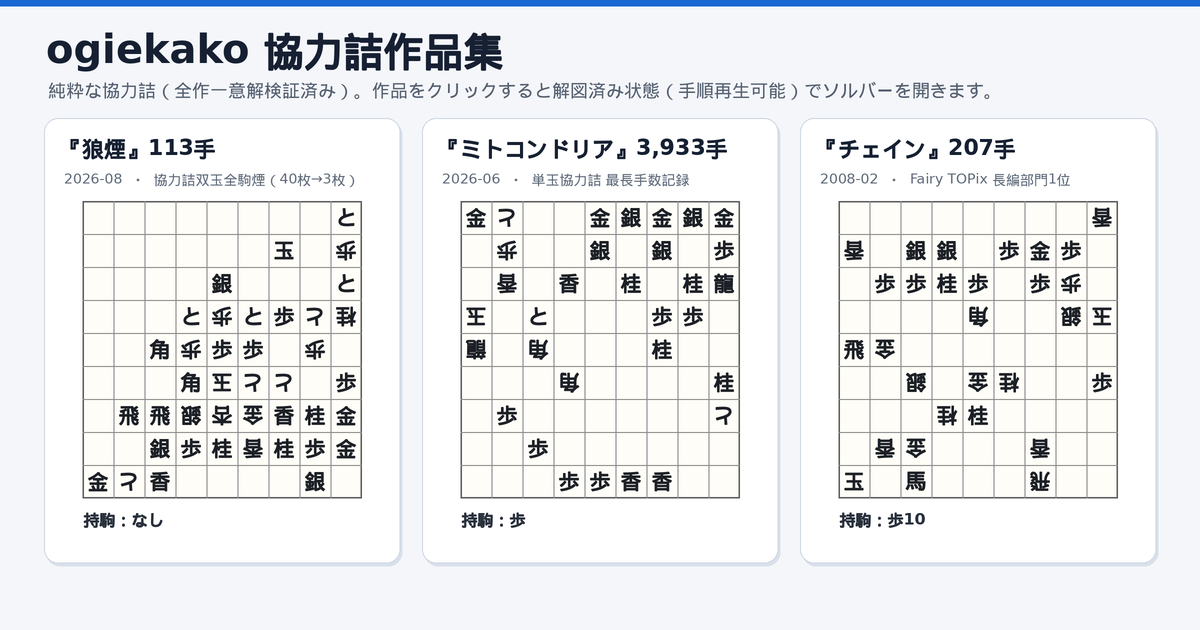
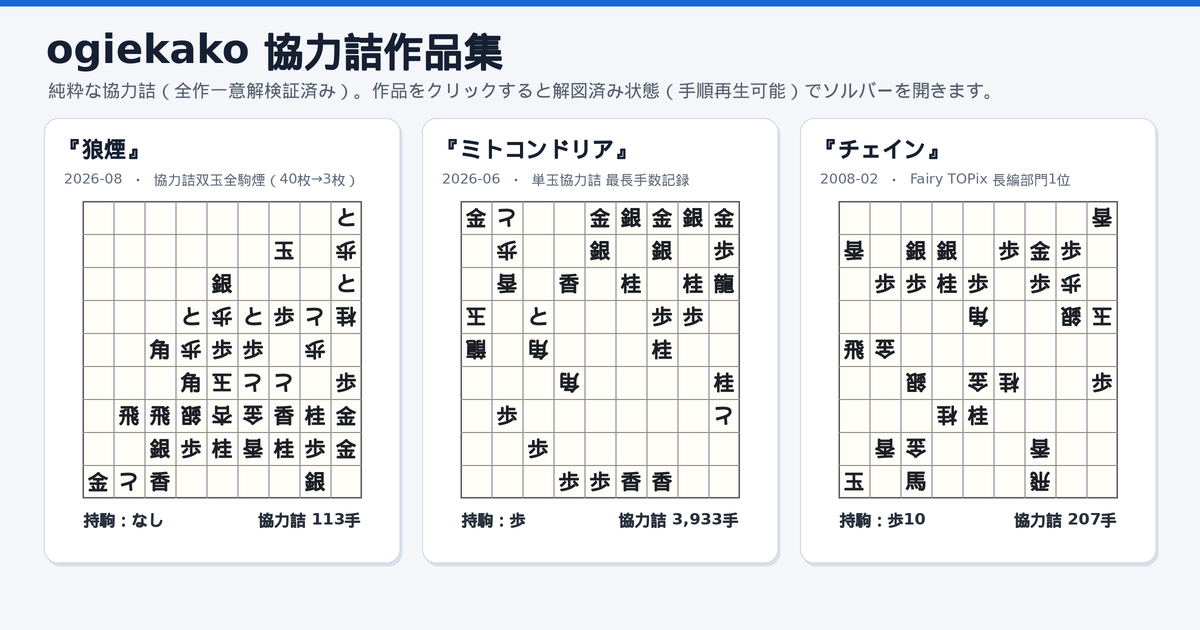
「協力詰 X手」の表記を盤面サムネイル下部に配置

diff --git a/app/src/ui/component/OgiekakoCollection.tsx b/app/src/ui/component/OgiekakoCollection.tsx
@@ -53,6 +53,7 @@ function formatHands(hands: model.Hands): string {
 function BoardThumbnail(props: {
   sfen: string;
   showWhiteHand?: boolean;
+  ruleAndMoves?: string;
   compact?: boolean;
 }) {
   const position = useMemo(() => model.decodeSfen(props.sfen), [props.sfen]);
@@ -153,6 +154,19 @@ function BoardThumbnail(props: {
         <span className="text-muted">持駒：</span>
         {blackHandText}
       </div>
+      {props.ruleAndMoves && (
+        <div
+          className="text-dark fw-semibold"
+          style={{
+            fontSize: props.compact ? "10px" : "11.5px",
+            lineHeight: 1.3,
+            textAlign: "left",
+            marginTop: "2px",
+          }}
+        >
+          {props.ruleAndMoves}
+        </div>
+      )}
     </div>
   );
 }
@@ -405,6 +419,7 @@ export default function OgiekakoCollection(props: {
                         <BoardThumbnail
                           sfen={p.sfen}
                           showWhiteHand={Boolean(p.defenderHand)}
+                          ruleAndMoves={`${p.rule} ${p.moves.toLocaleString()}手`}
                         />
                       </div>
                       <div
@@ -421,11 +436,11 @@ export default function OgiekakoCollection(props: {
                               <span className="text-muted me-2">
                                 #{origIndex}
                               </span>
-                              <span className="fw-bold fs-6 me-2">
-                                {p.title
-                                  ? `${formatProblemTitle(p.title, true)}${p.moves.toLocaleString()}手`
-                                  : `${p.moves.toLocaleString()}手`}
-                              </span>
+                              {p.title && (
+                                <span className="fw-bold fs-6 me-2">
+                                  {formatProblemTitle(p.title)}
+                                </span>
+                              )}
                               <span
                                 className="text-muted"
                                 style={{ fontSize: "0.88em" }}
